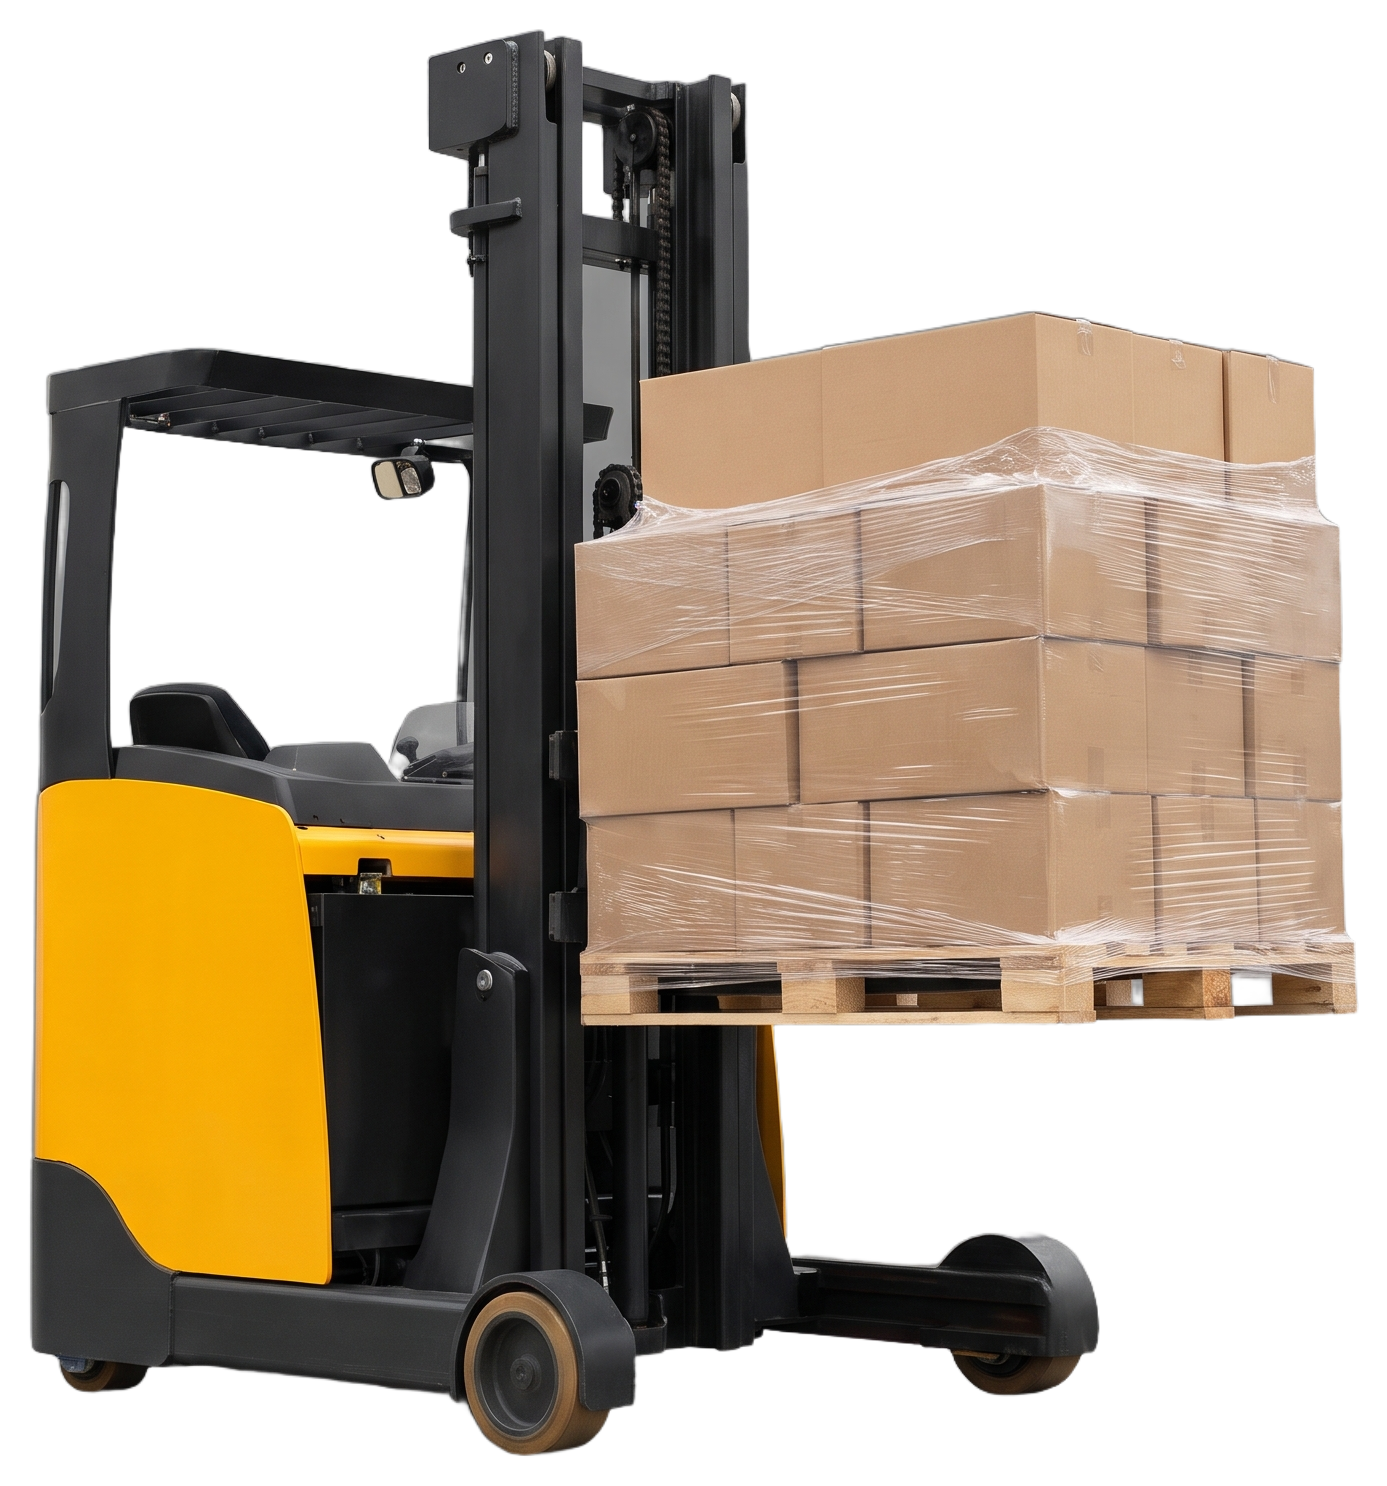
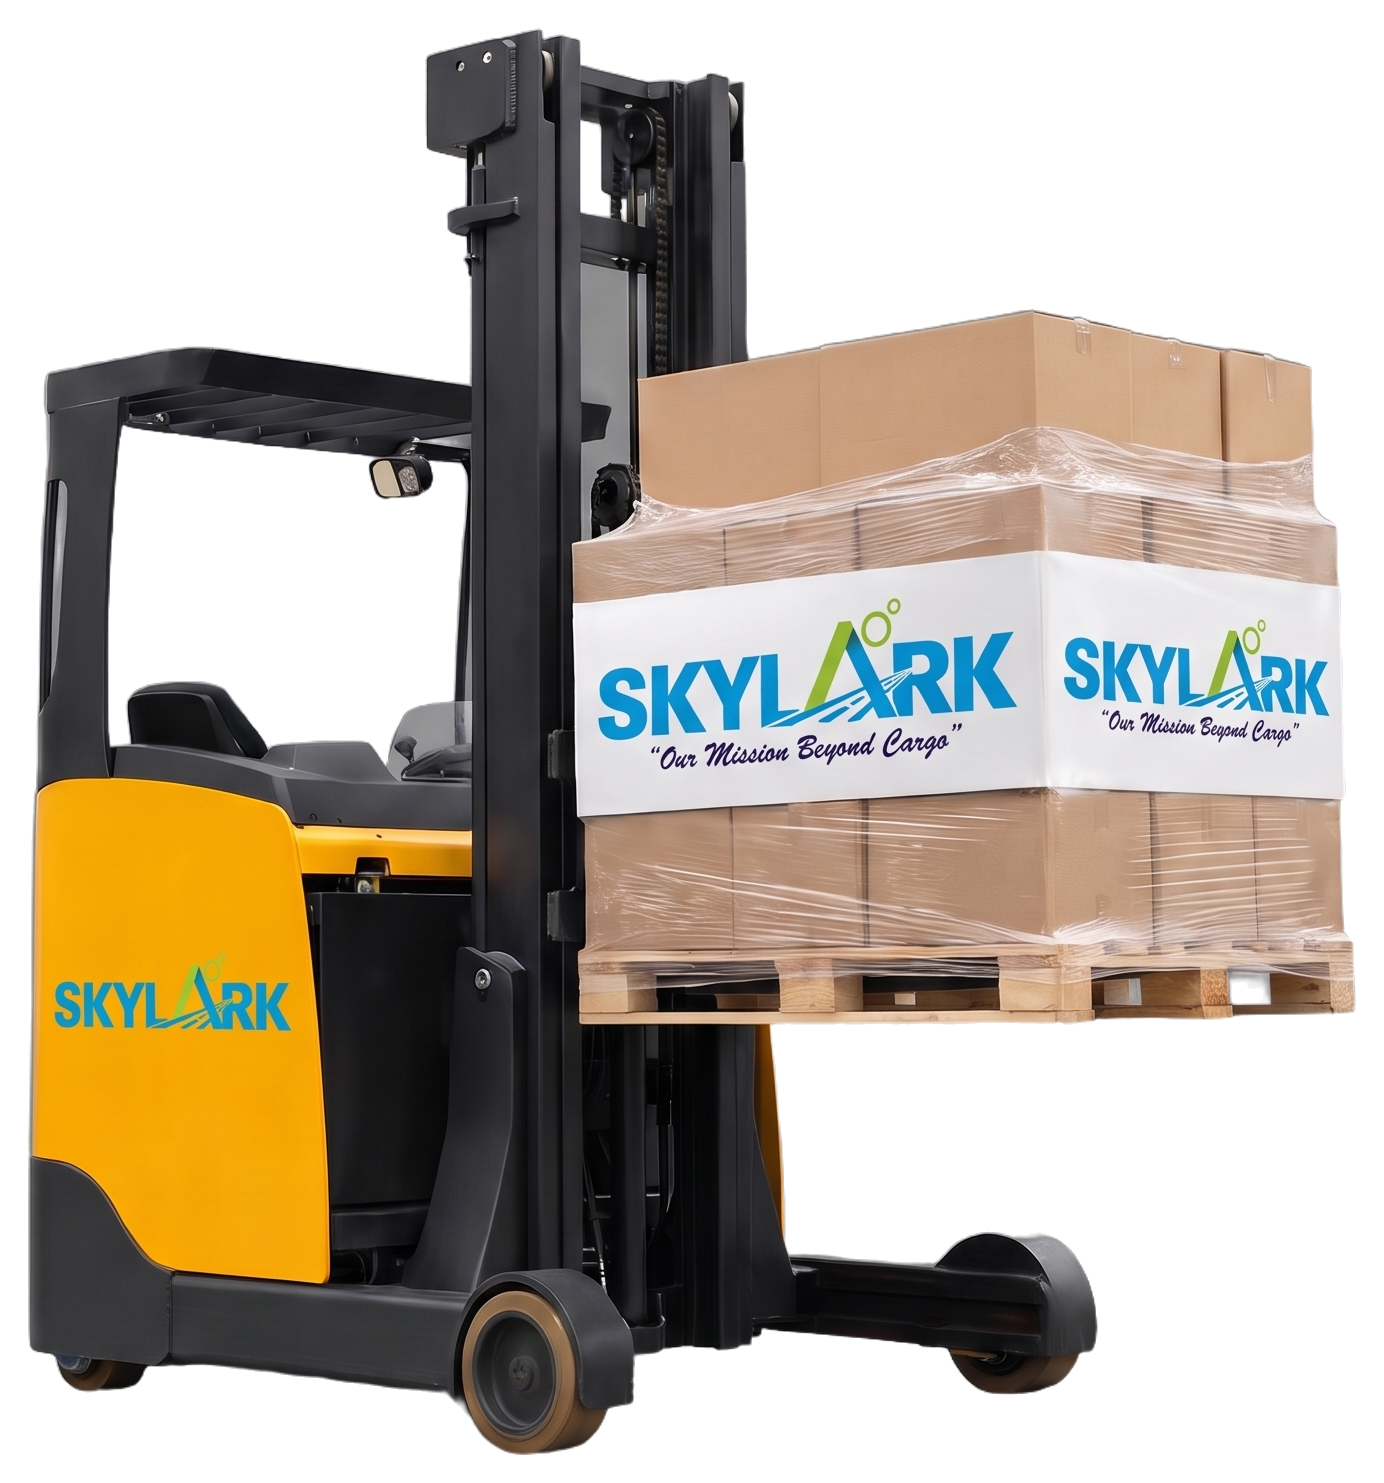
Brand every cut-out: aircraft livery, train, low-loader, forklift, air pallet
Claude-Session: https://claude.ai/code/session_01FkLxmJTtKPdAMDGpJPHRbw

diff --git a/skylark-express/scripts/prep-cuts.py b/skylark-express/scripts/prep-cuts.py
@@ -1,0 +1,14 @@
+#!/usr/bin/env python3
+"""Trims transparent cut-out masters in media-src/cut/png and writes them to src/assets/cut.
+Usage: python3 scripts/prep-cuts.py [name ...]"""
+import sys, os, glob
+from PIL import Image
+import numpy as np
+ROOT = os.path.dirname(os.path.dirname(os.path.abspath(__file__)))
+names = sys.argv[1:] or [os.path.basename(f)[:-4] for f in glob.glob(f'{ROOT}/media-src/cut/png/*.png')]
+for n in names:
+    im = Image.open(f'{ROOT}/media-src/cut/png/{n}.png').convert('RGBA')
+    a = np.array(im); a[:, :, 3][a[:, :, 3] < 24] = 0; im = Image.fromarray(a)  # drop faint halo pixels
+    im = im.crop(im.getbbox()); pad = int(max(im.size) * 0.02)
+    c = Image.new('RGBA', (im.width + 2 * pad, im.height + 2 * pad), (0, 0, 0, 0)); c.alpha_composite(im, (pad, pad))
+    c.save(f'{ROOT}/src/assets/cut/{n}.png', optimize=True); print(n, c.size)
